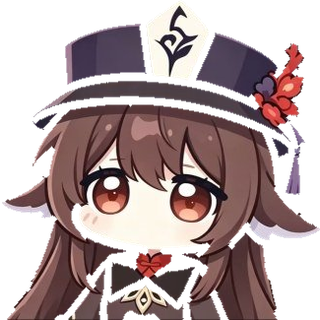
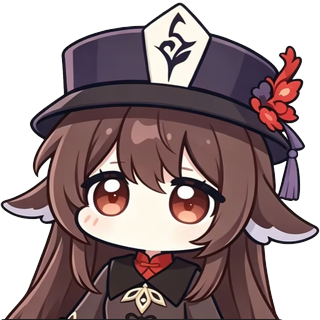
feat(pendant): 换成透明底原画导出的立绘
原图自带 alpha，直接缩放导出，不再做黑底抠图，轮廓没有白边和
镂空。尺寸仍是 320×320、人物贴画布右下角；下边缘直切（不透明像素
87 %），翻转规则与之前一致。

diff --git a/docs/design/pendant.md b/docs/design/pendant.md
@@ -116,9 +116,9 @@ prefs key：`pendant_widget`、`pendant_art`、`pendant_art_path`、`pendant_sou
 
 ## 8. 素材与许可
 
-内置素材放在 `app/assets/pendant/`：`head.png`（320×320 透明 PNG，人物贴画布右下角）、`Ya1.mp3`、`Ya2.mp3`、`D1.mp3`、`D2.mp3`。音效沿用上游素材；角色图是本分支自备的图片，抠掉黑底后导出。
+内置素材放在 `app/assets/pendant/`：`head.png`（320×320 透明 PNG，人物贴画布右下角）、`Ya1.mp3`、`Ya2.mp3`、`D1.mp3`、`D2.mp3`。音效沿用上游素材；角色图是本分支自备的图片，从原画的透明底版本导出。
 
-**翻转规则**：这张图的下边缘（不透明像素占 67 %）是直切的，人物贴在画布右下角。站在屏幕左侧时整张图水平镜像，帽饰与流苏换到另一侧；站到右侧时镜像取消。左右由 `pendantX < 0.5` 判断，只在 0/1 吸附后才有意义。自定义图片不镜像——用户给的图没有这条几何约束。
+**翻转规则**：这张图的下边缘（不透明像素占 87 %）是直切的，人物贴在画布右下角。站在屏幕左侧时整张图水平镜像，帽饰与流苏换到另一侧；站到右侧时镜像取消。左右由 `pendantX < 0.5` 判断，只在 0/1 吸附后才有意义。自定义图片不镜像——用户给的图没有这条几何约束。
 
 上游 `PROVENANCE.md` 明确：`assets/**` 与 `icon.png` **不适用 MIT**，按 as-is 提供、不再许可、只用于运行该插件，收到权利主张即替换。这些是本仓库里唯一的非 MIT 素材，改发布形态前先确认，或者直接换掉：
 
